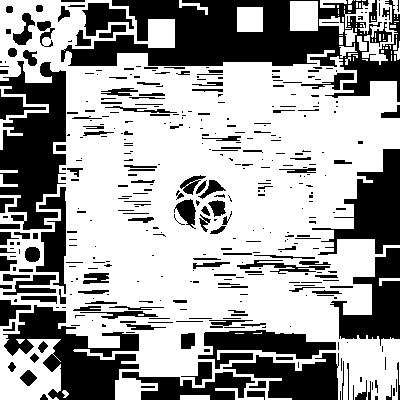
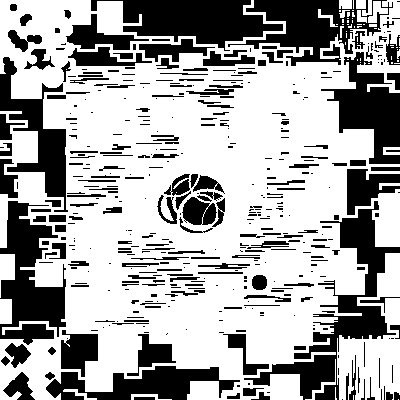
less ladders

diff --git a/map.js b/map.js
@@ -309,91 +309,90 @@ exports.Map.prototype = {
 		var seg = Math.floor(Math.random()*(segMax-segMin+1)+segMin);
 		this.worm(seg, posXMin, posXMax, posYMin, posYMax, startX, startY, lengthXMin, lengthXMax, lengthYMin, lengthYMax, thickX, thickY, colourMin, colourMax);
 	}
-},
-worm: function worm(seg, posXMin, posXMax, posYMin, posYMax, startX, startY, lengthXMin, lengthXMax, lengthYMin, lengthYMax, thickX, thickY, colourMin, colourMax) {
-	var posX = startX;
-	var posY = startY;
-	var lastD = Math.floor(Math.random()*4);
-	var bends = 0;
-	for (var i = 0; i < seg; i++) {
-		console.log(bends);
-		var direction = Math.floor(Math.random()*4);
-		//RIGHT
-		if (direction === 0) {
-			//From UP
-			if (lastD === 3) {
-				var randLengthX = this.Random(lengthXMin, lengthXMax);
-				this.makeTerrainInBounds(posXMin, posXMax, posYMin, posYMax, posX, posY, randLengthX, thickY, colourMin, colourMax);
-				posX = posX + randLengthX;
-				posY = posY;
-				lastD = 0;
-			//From DOWN
-			} else if (lastD === 1) {
-				var randLengthX = this.Random(lengthXMin, lengthXMax);
-				this.makeTerrainInBounds(posXMin, posXMax, posYMin, posYMax, posX+thickX, posY, randLengthX, thickY, colourMin, colourMax);
-				posX = posX + randLengthX + thickX;
-				posY = posY;
-				lastD = 0;
-			} else {
-				i--;
-			}
-		//UP
-		} else if (direction === 1) {
-			//From RIGHT
-			if (lastD === 0) {
-				var randLengthY = this.Random(lengthYMin, lengthYMax);
-				this.makeTerrainInBounds(posXMin, posXMax, posYMin, posYMax, posX-thickX, posY-randLengthY, thickX, randLengthY, colourMin, colourMax);
-				posX = posX - thickX;
-				posY = posY - randLengthY;
-				lastD = 1;
-			//From LEFT
-			} else if (lastD === 2) {
-				var randLengthY = this.Random(lengthYMin, lengthYMax);
-				this.makeTerrainInBounds(posXMin, posXMax, posYMin, posYMax, posX, posY-randLengthY, thickX, randLengthY, colourMin, colourMax);
-				posX = posX;
-				posY = posY - randLengthY;
-				lastD = 1;
-			} else {
-				i--;
-			}
-		//LEFT
-		} else if (direction === 2) {
-			if (lastD === 1) {
-				var randLengthX = this.Random(lengthXMin, lengthXMax);
-				this.makeTerrainInBounds(posXMin, posXMax, posYMin, posYMax, posX-randLengthX, posY, randLengthX, thickY, colourMin, colourMax);
-				posX = posX - randLengthX;
-				posY = posY;
-				lastD = 2;
-			} else if (lastD === 3) {
-				var randLengthX = this.Random(lengthXMin, lengthXMax);
-				this.makeTerrainInBounds(posXMin, posXMax, posYMin, posYMax, posX-randLengthX+thickX, posY, randLengthX, thickY, colourMin, colourMax);
-				posX = posX - randLengthX + thickX;
-				posY = posY;
-				lastD = 2;
-			} else {
-				i--;
-			}
-		//DOWN
-		} else {
-			if (lastD === 0) {
-				var randLengthY = this.Random(lengthYMin, lengthYMax);
-				this.makeTerrainInBounds(posXMin, posXMax, posYMin, posYMax, posX, posY, thickX, randLengthY, colourMin, colourMax);
-				posX = posX;
-				posY = posY + randLengthY;
-				lastD = 3;
-			} else if (lastD === 2) {
-				var randLengthY = this.Random(lengthYMin, lengthYMax);
-				this.makeTerrainInBounds(posXMin, posXMax, posYMin, posYMax, posX-thickX, posY, thickX, randLengthY, colourMin, colourMax);
-				posX = posX - thickX;
-				posY = posY + randLengthY;
-				lastD = 3;
-			} else {
-				i--;
-			}
-		}
-	}
-},
-
+  },
+  worm: function worm(seg, posXMin, posXMax, posYMin, posYMax, startX, startY, lengthXMin, lengthXMax, lengthYMin, lengthYMax, thickX, thickY, colourMin, colourMax) {
+  	var posX = startX;
+  	var posY = startY;
+  	var lastD = Math.floor(Math.random()*4);
+  	var bends = 0;
+  	for (var i = 0; i < seg; i++) {
+  		console.log(bends);
+  		var direction = Math.floor(Math.random()*4);
+  		//RIGHT
+  		if (direction === 0) {
+  			//From UP
+  			if (lastD === 3) {
+  				var randLengthX = this.Random(lengthXMin, lengthXMax);
+  				this.makeTerrainInBounds(posXMin, posXMax, posYMin, posYMax, posX, posY, randLengthX, thickY, colourMin, colourMax);
+  				posX = posX + randLengthX;
+  				posY = posY;
+  				lastD = 0;
+  			//From DOWN
+  			} else if (lastD === 1) {
+  				var randLengthX = this.Random(lengthXMin, lengthXMax);
+  				this.makeTerrainInBounds(posXMin, posXMax, posYMin, posYMax, posX+thickX, posY, randLengthX, thickY, colourMin, colourMax);
+  				posX = posX + randLengthX + thickX;
+  				posY = posY;
+  				lastD = 0;
+  			} else {
+  				i--;
+  			}
+  		//UP
+  		} else if (direction === 1) {
+  			//From RIGHT
+  			if (lastD === 0) {
+  				var randLengthY = this.Random(lengthYMin, lengthYMax);
+  				this.makeTerrainInBounds(posXMin, posXMax, posYMin, posYMax, posX-thickX, posY-randLengthY, thickX, randLengthY, colourMin, colourMax);
+  				posX = posX - thickX;
+  				posY = posY - randLengthY;
+  				lastD = 1;
+  			//From LEFT
+  			} else if (lastD === 2) {
+  				var randLengthY = this.Random(lengthYMin, lengthYMax);
+  				this.makeTerrainInBounds(posXMin, posXMax, posYMin, posYMax, posX, posY-randLengthY, thickX, randLengthY, colourMin, colourMax);
+  				posX = posX;
+  				posY = posY - randLengthY;
+  				lastD = 1;
+  			} else {
+  				i--;
+  			}
+  		//LEFT
+  		} else if (direction === 2) {
+  			if (lastD === 1) {
+  				var randLengthX = this.Random(lengthXMin, lengthXMax);
+  				this.makeTerrainInBounds(posXMin, posXMax, posYMin, posYMax, posX-randLengthX, posY, randLengthX, thickY, colourMin, colourMax);
+  				posX = posX - randLengthX;
+  				posY = posY;
+  				lastD = 2;
+  			} else if (lastD === 3) {
+  				var randLengthX = this.Random(lengthXMin, lengthXMax);
+  				this.makeTerrainInBounds(posXMin, posXMax, posYMin, posYMax, posX-randLengthX+thickX, posY, randLengthX, thickY, colourMin, colourMax);
+  				posX = posX - randLengthX + thickX;
+  				posY = posY;
+  				lastD = 2;
+  			} else {
+  				i--;
+  			}
+  		//DOWN
+  		} else {
+  			if (lastD === 0) {
+  				var randLengthY = this.Random(lengthYMin, lengthYMax);
+  				this.makeTerrainInBounds(posXMin, posXMax, posYMin, posYMax, posX, posY, thickX, randLengthY, colourMin, colourMax);
+  				posX = posX;
+  				posY = posY + randLengthY;
+  				lastD = 3;
+  			} else if (lastD === 2) {
+  				var randLengthY = this.Random(lengthYMin, lengthYMax);
+  				this.makeTerrainInBounds(posXMin, posXMax, posYMin, posYMax, posX-thickX, posY, thickX, randLengthY, colourMin, colourMax);
+  				posX = posX - thickX;
+  				posY = posY + randLengthY;
+  				lastD = 3;
+  			} else {
+  				i--;
+  			}
+  		}
+  	}
+  },
   colouring: function colouring(prob, posXMin, posXMax, posYMin, posYMax, colourMin, colourMax) {
     for (var x = posXMin; x < posXMax+1;x++) {
       for (var y = posYMin; y < posYMax; y++) {
@@ -417,6 +416,21 @@ worm: function worm(seg, posXMin, posXMax, posYMin, posYMax, startX, startY, len
         for (var i = 0; i < SizeY; i++){
           var Colour = Math.floor(Math.random()*(colourMax-colourMin+1)+colourMin);
           this.ladders[PosX+PosY*ret+z+i*ret] = Colour;
+        }
+      }
+    }
+  },
+  ladderRing: function ladderRing(posXMin, posXMax, posYMin, posYMax, radius, thick, colourMin, colourMax) {
+    var PosX = this.Random(posXMin,posXMax);
+    var PosY = this.Random(posYMin,posYMax);
+    for (var z = -radius; z < radius; z++){
+      for (var i = -radius; i < radius; i++){
+        var rad = Math.sqrt(z*z+i*i);
+        if(rad > radius-thick && rad <= radius){
+          var ringColour = Math.floor(Math.random()*(colourMax-colourMin+1)+colourMin);
+          if (PosX+z <= ret-1 && PosX+z >= 0 && PosY+i <= ret-1 && PosY+i >= 0 ) {
+            this.ladders[PosX+PosY*ret+z+i*ret] = ringColour;
+          }
         }
       }
     }
@@ -543,7 +557,8 @@ worm: function worm(seg, posXMin, posXMax, posYMin, posYMax, startX, startY, len
       this.randomSnakes(1500, 0, 15, 30, size-Realms-Overlap, size, 0, Realms+Overlap, 3, 12, 4, 16, 3, 3, 0, 0);
     //Portal Spawn
     	this.portal(0,size-24 ,0,size-24,24,24,8);
-      this.randomLadders(750, 0, size, 0, size, 1, 2, 24, 32, 13, 16);
+      this.randomLadders(750, Outer, size-Outer, Outer, size-Outer, 1, 2, 24, 32, 13, 16);
+      this.ladderRing(Center, Center, Center, Center, Inner, Inner, 0, 0);
     }
       this.setMap();
 	},
